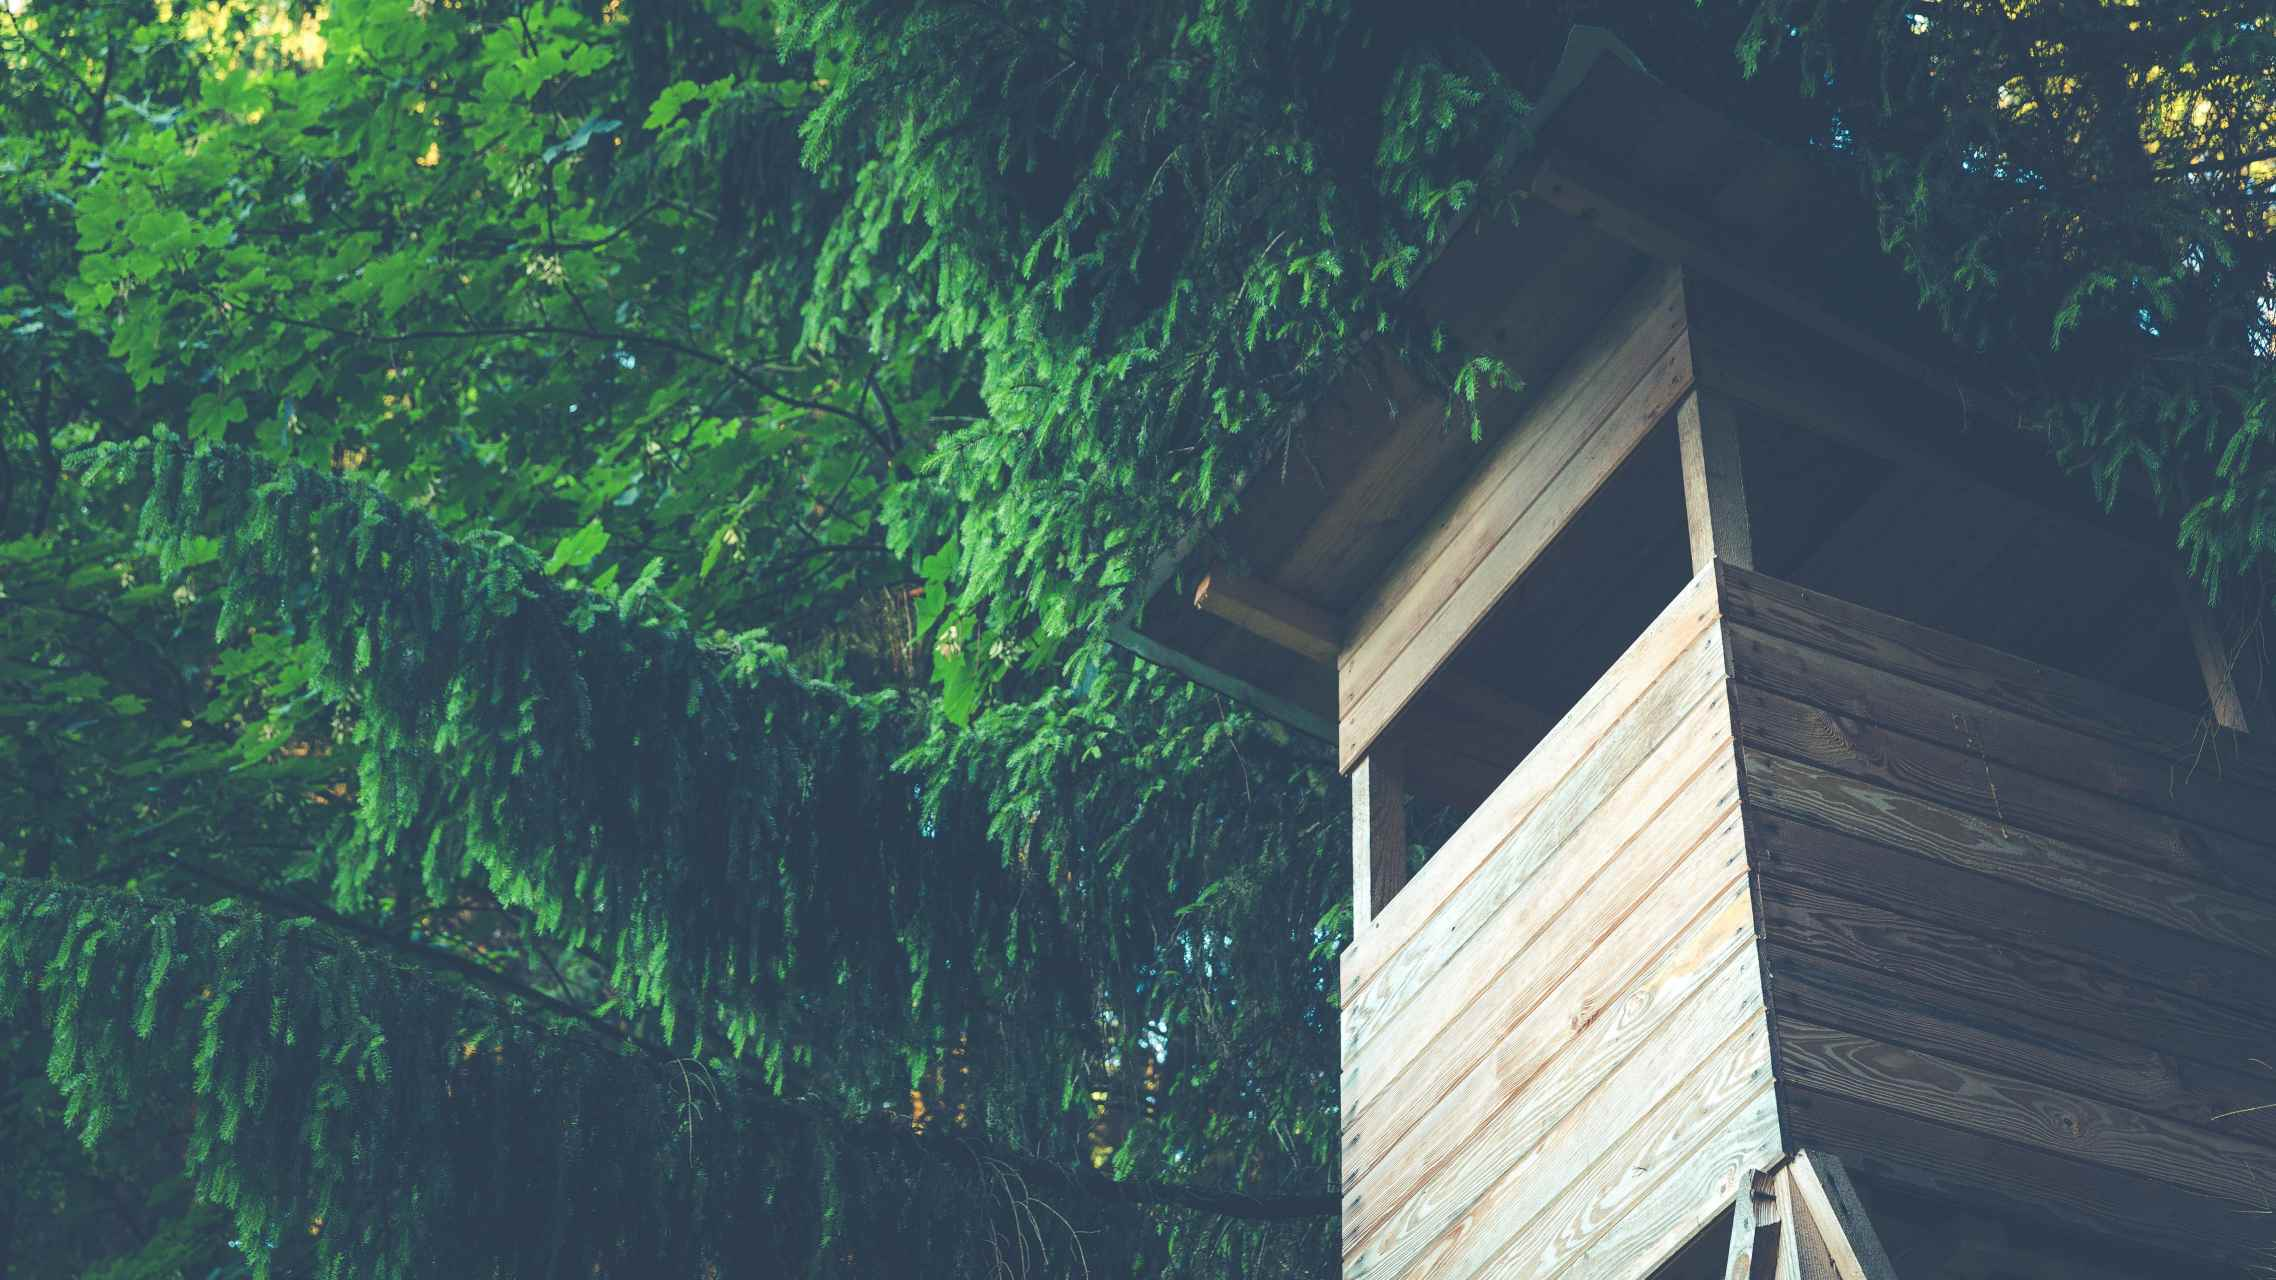
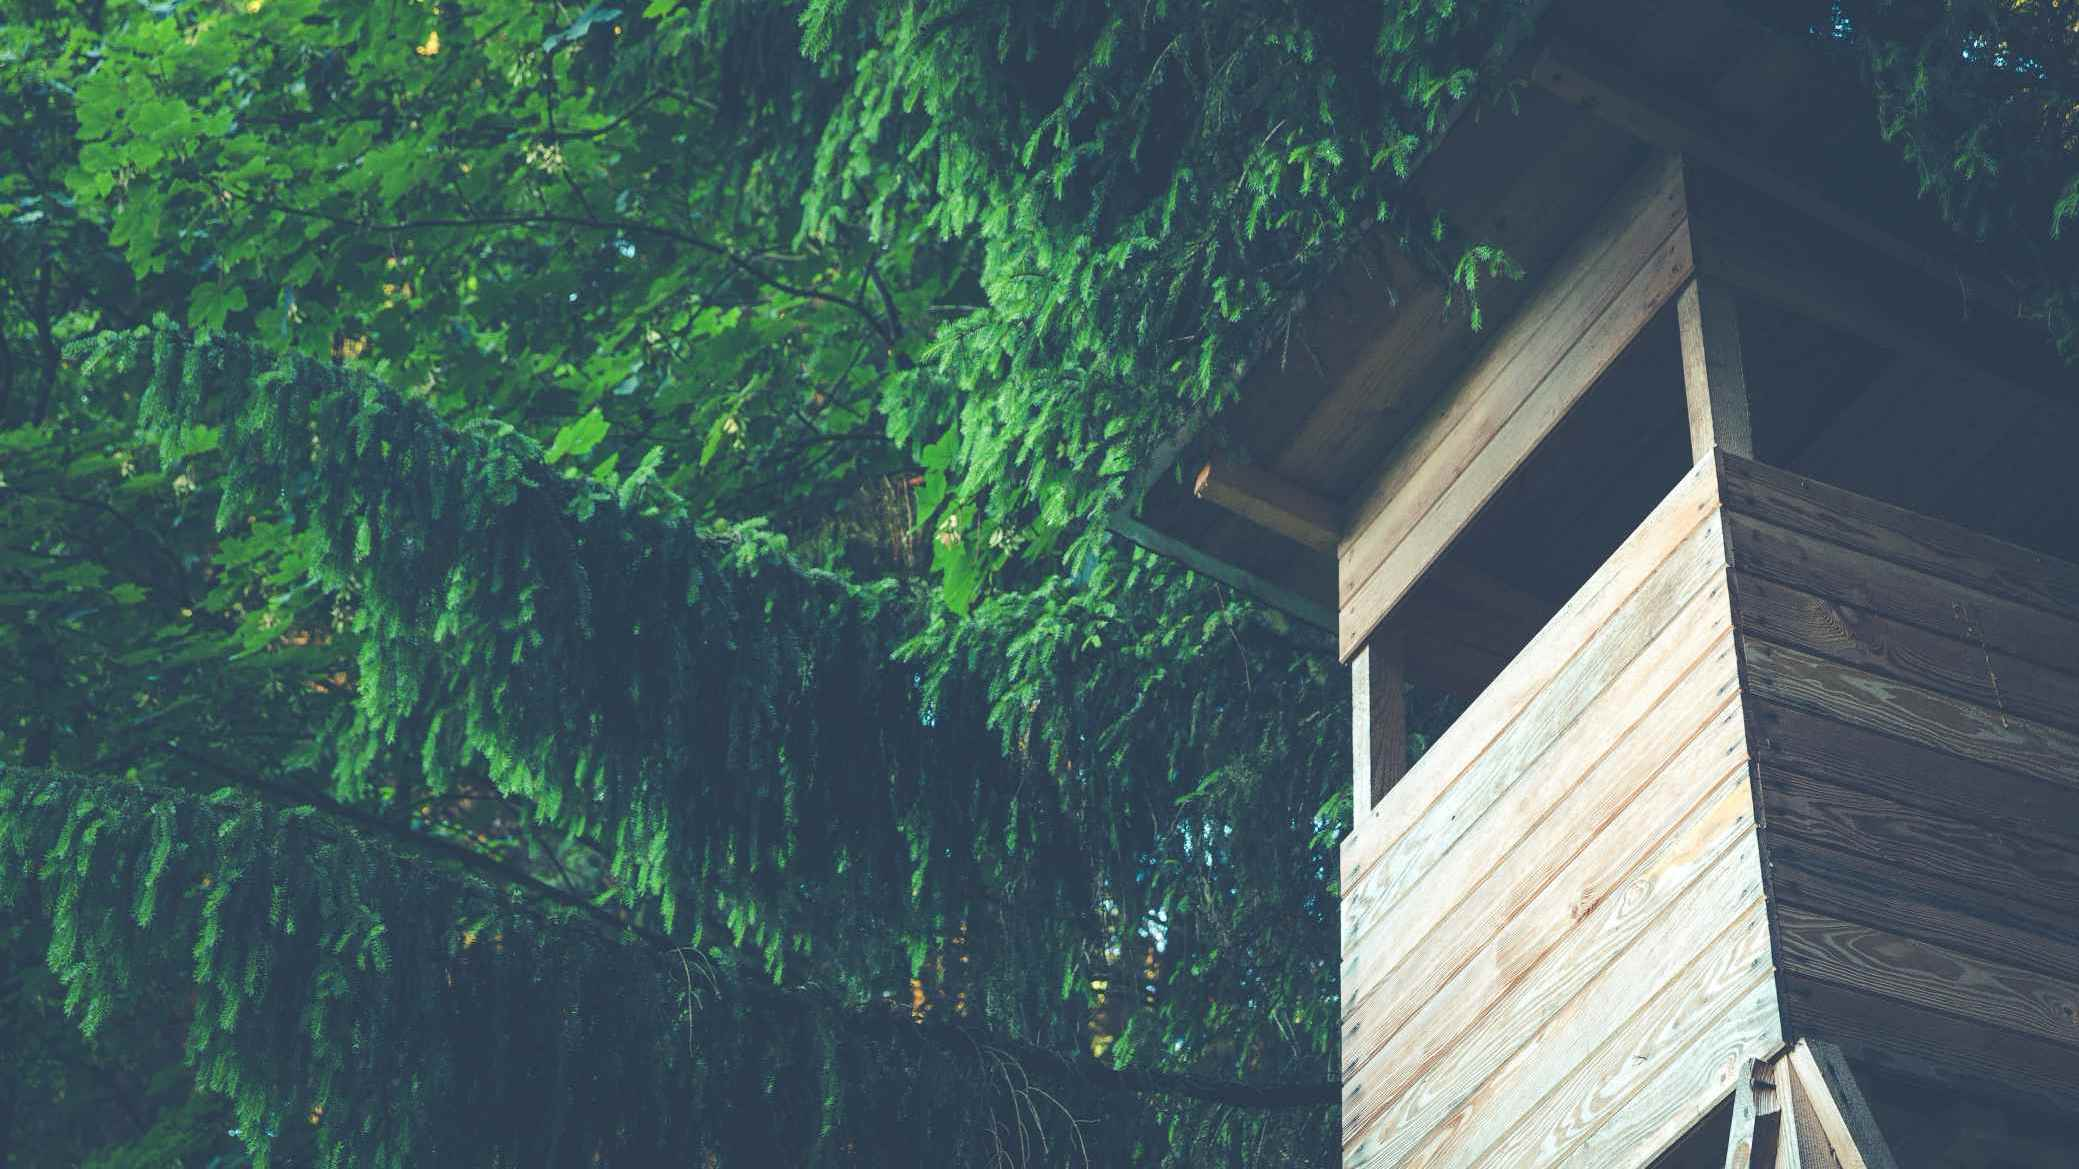
Replace hero background image and refactor background position

diff --git a/static/css/style.css b/static/css/style.css
@@ -99,7 +99,7 @@
     height: 100vh;
     background-image: url('/static/images/hero-bg.jpg');
     background-size: cover;
-    background-position: center;
+    background-position: center right;
 }
 
 .hero-background {
